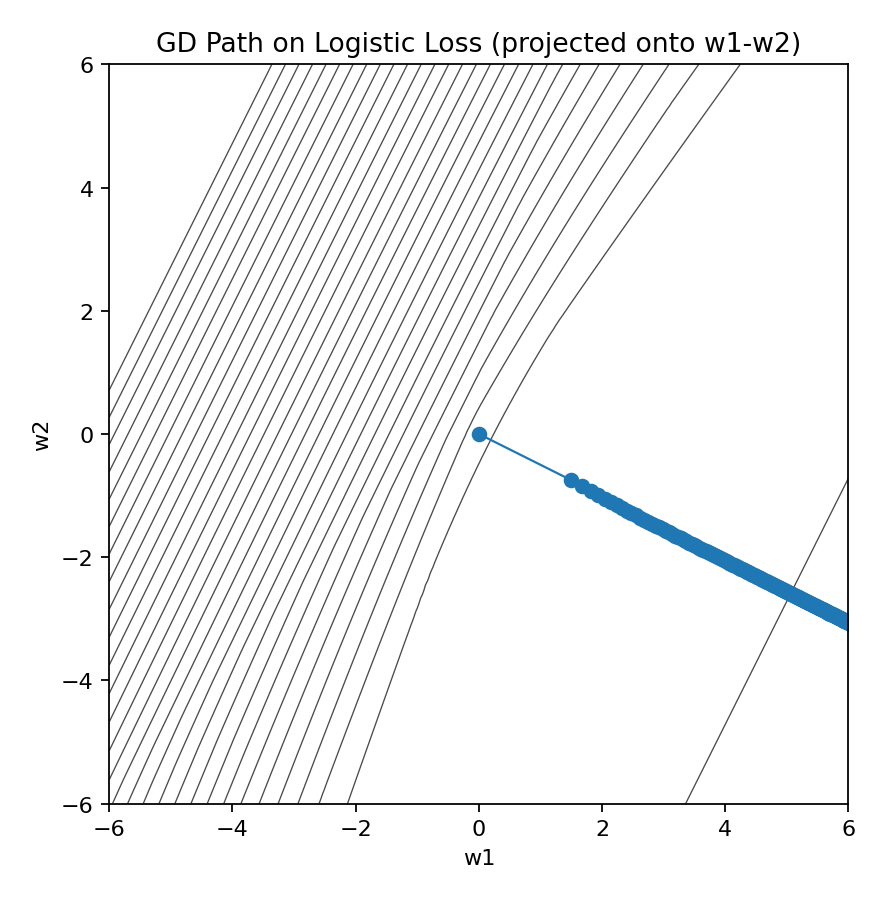
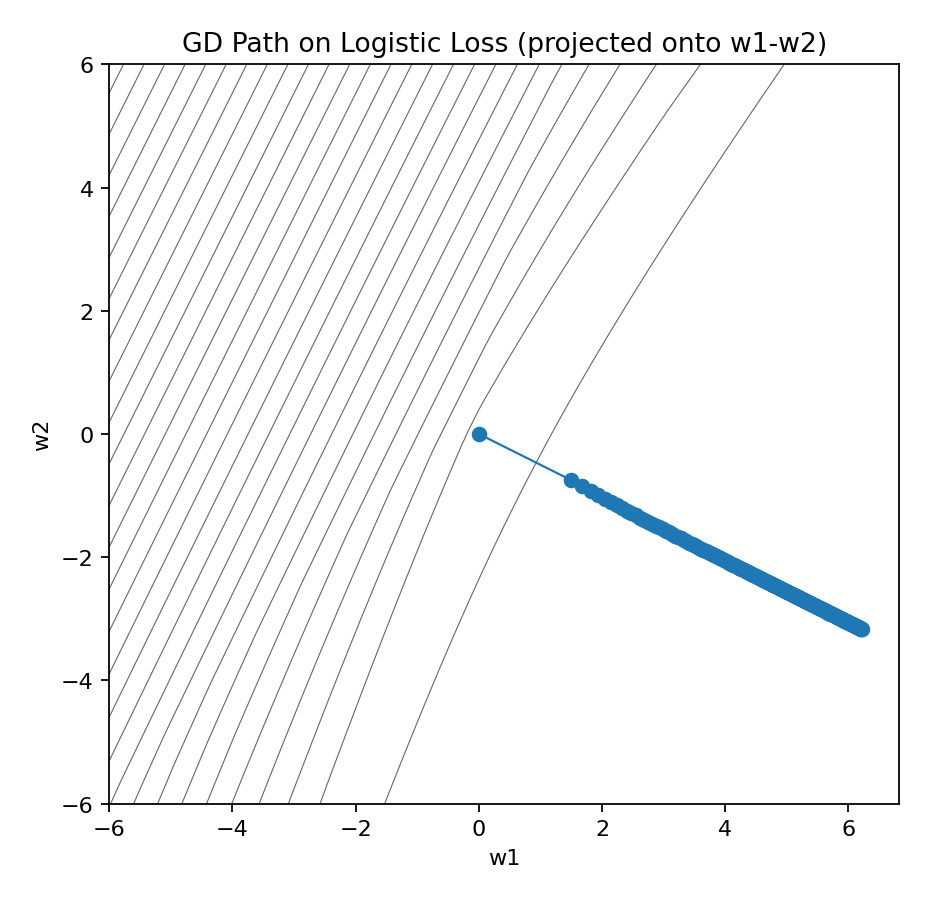
revert(vis): restore filled logistic surface (no isolines)
Back to smooth contourf-only surface; kept GD-path overlay figure unchanged.

diff --git a/examples/logreg_surface.py b/examples/logreg_surface.py
@@ -1,6 +1,5 @@
 import numpy as np
 import matplotlib.pyplot as plt
-from matplotlib import colors
 from mfd4.gradient_descent import logistic_loss, gd
 
 # Tiny 2D dataset
@@ -13,17 +12,22 @@ X = np.array([
 ])
 y = np.array([0, 0, 0, 1, 1])
 
+# Build loss/grad on (w1, w2, b)
 f, grad = logistic_loss(X, y, lam=0.0)
 
 def newton_opt_b(w1: float, w2: float, b0: float = 0.0, iters: int = 25):
-    """Optimize scalar bias b for fixed w=(w1,w2) using 1-D Newton steps."""
+    """
+    Optimize scalar bias b for fixed w=(w1,w2) using 1-D Newton steps:
+      g(b)  = sum(sigmoid(Xw + b) - y)
+      g'(b) = sum(p*(1-p))
+    """
     w = np.array([w1, w2], dtype=float)
     b = float(b0)
     for _ in range(iters):
         z = X @ w + b
         p = 1.0 / (1.0 + np.exp(-z))
-        g  = float(np.sum(p - y))                       # dNLL/db
-        g2 = float(np.sum(p * (1.0 - p)) + 1e-12)       # d^2NLL/db^2
+        g  = float(np.sum(p - y))
+        g2 = float(np.sum(p * (1.0 - p)) + 1e-12)
         b -= g / g2
         b = float(np.clip(b, -20.0, 20.0))
     return b
@@ -34,47 +38,37 @@ w2s = np.linspace(-6, 6, 160)
 W1, W2 = np.meshgrid(w1s, w2s)
 ZZ = np.empty_like(W1, dtype=float)
 
-# Loss surface with b optimized via Newton
+# Compute loss surface with b optimized via Newton
 for i in range(W1.shape[0]):
     for j in range(W1.shape[1]):
         w1 = float(W1[i, j]); w2 = float(W2[i, j])
         b_star = newton_opt_b(w1, w2, b0=0.0, iters=25)
         ZZ[i, j] = f(np.array([w1, w2, b_star], dtype=float))
 
-# Replace NaNs/Infs and compute contrast range
+# Sanity: replace any NaNs/Infs; print range
 ZZ = np.nan_to_num(ZZ, posinf=np.finfo(float).max/10, neginf=0.0)
 zmin, zmax = float(np.min(ZZ)), float(np.max(ZZ))
-print(f"logreg surface raw range: min={zmin:.3f}, max={zmax:.3f}")
+print(f"logreg surface range: min={zmin:.4f}, max={zmax:.4f}")
 
-# Percentile-based contrast so mid-range structure is visible
-vmin = float(np.percentile(ZZ, 5))
-vmax = float(np.percentile(ZZ, 95))
-if vmax - vmin < 1e-6:
-    vmin, vmax = zmin, zmax  # fallback if too narrow
-levels = np.linspace(vmin, vmax, 30)
-norm = colors.Normalize(vmin=vmin, vmax=vmax)
-
-# Filled contours + isolines + colorbar (square + equal aspect)
+# === Figure 1: FILLED contours ONLY (no isoline rings) ===
 plt.figure(figsize=(7, 6))
-cf = plt.contourf(W1, W2, ZZ, levels=levels, norm=norm, cmap="viridis")
-cs = plt.contour(W1, W2, ZZ, levels=levels, colors="k", linewidths=0.4, alpha=0.6)
-plt.clabel(cs, inline=1, fontsize=7, fmt="%.1f")
+cf = plt.contourf(W1, W2, ZZ, levels=30, cmap="viridis")
 plt.colorbar(cf, shrink=0.85, label="loss")
-plt.xlim(w1s.min(), w1s.max()); plt.ylim(w2s.min(), w2s.max())
 plt.gca().set_aspect("equal", adjustable="box")
 plt.title("Logistic Regression Loss Surface (b optimized via Newton)")
 plt.xlabel("w1"); plt.ylabel("w2")
 plt.savefig("figures/logreg_surface.png", dpi=160, bbox_inches="tight", pad_inches=0.2)
 plt.show()
 
-# Projected GD path on the same surface
+# === Figure 2: GD path projected on w1-w2 (keep thin contour lines here for context) ===
 x0 = np.array([0.0, 0.0, 0.0])
 _, path, _ = gd(f, grad, x0=x0, lr=0.5, steps=200)
-
 plt.figure(figsize=(7, 6))
-plt.contour(W1, W2, ZZ, levels=levels, norm=norm, colors="k", linewidths=0.6, alpha=0.7)
+try:
+    cs = plt.contour(W1, W2, ZZ, levels=30, colors="k", linewidths=0.5, alpha=0.6)
+except Exception:
+    cs = plt.contour(W1, W2, ZZ, levels=5, colors="k", linewidths=0.5, alpha=0.6)
 plt.plot(path[:,0], path[:,1], marker='o', linewidth=1)
-plt.xlim(w1s.min(), w1s.max()); plt.ylim(w2s.min(), w2s.max())
 plt.gca().set_aspect("equal", adjustable="box")
 plt.title("GD Path on Logistic Loss (projected onto w1-w2)")
 plt.xlabel("w1"); plt.ylabel("w2")
